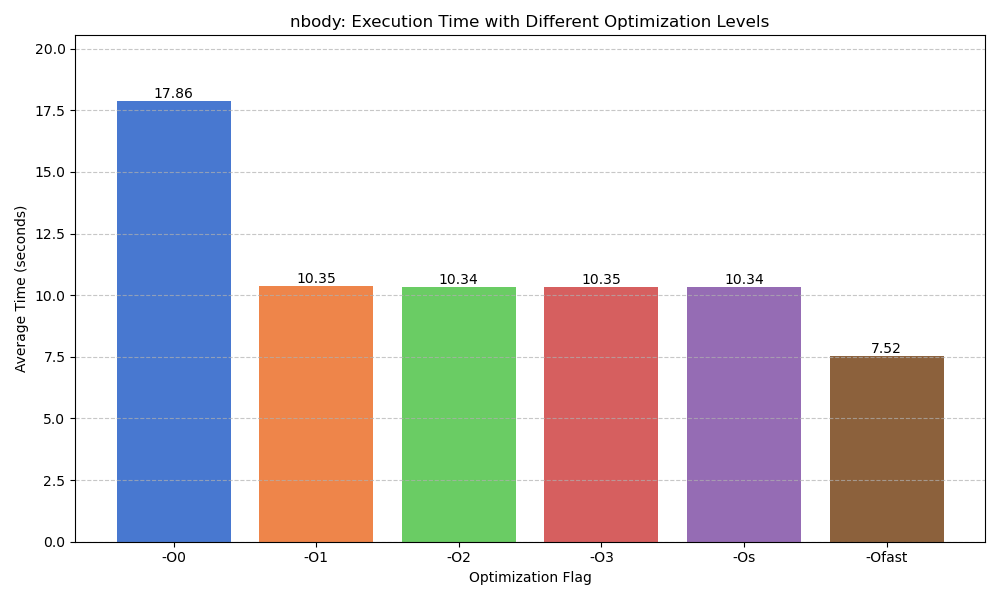
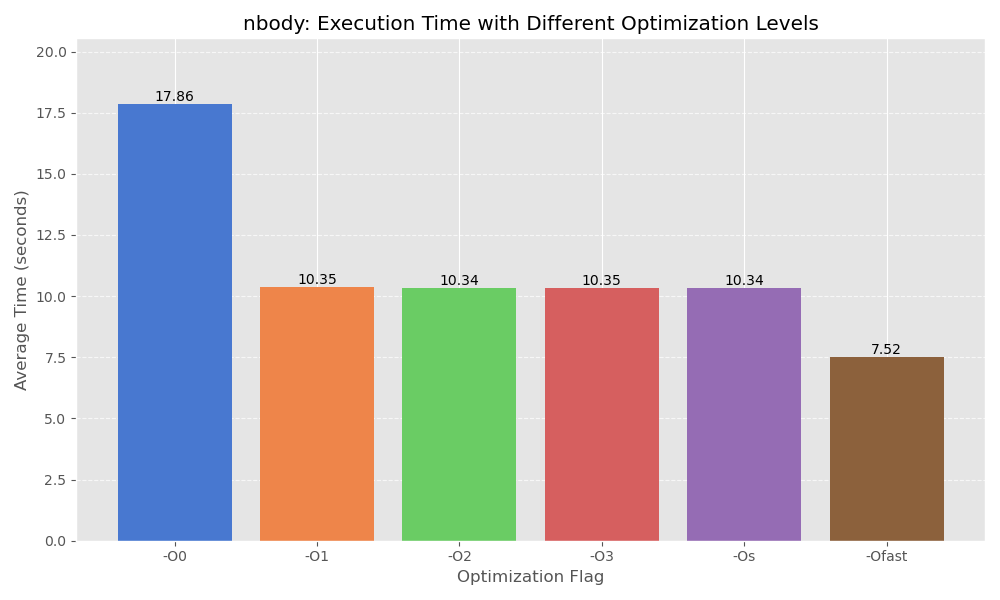
Add detailed optimization analysis and new plots for performance improvements

diff --git a/05/results_b/plot.py b/05/results_b/plot.py
@@ -1,0 +1,114 @@
+import pandas as pd
+import matplotlib.pyplot as plt
+import seaborn as sns
+import numpy as np
+import os
+
+plt.style.use('ggplot')
+sns.set_palette("muted")
+df = pd.read_csv('flag_analysis.csv')
+
+# Extract program names for easier display
+df['ProgramName'] = df['Program'].apply(lambda x: x.split('/')[-1])
+
+# Function to format flag names for better display
+def format_flag(flag):
+    return flag.replace('-f', '').replace('-O3 (full)', 'O3 full')
+
+# Apply formatting to flag names
+df['FormattedFlag'] = df['Flag'].apply(format_flag)
+
+# Create a directory for saving plots
+output_dir = '.'
+os.makedirs(output_dir, exist_ok=True)
+
+# Set figure size for individual plots
+plt.figure(figsize=(12, 7))
+
+# Generate individual plots for each program
+for program in df['Program'].unique():
+    program_df = df[df['Program'] == program]
+    program_name = program.split('/')[-1]
+    
+    plt.figure(figsize=(12, 7))
+    ax = sns.barplot(x='FormattedFlag', y='Improvement (%)', data=program_df)
+    
+    # Add a horizontal line at y=0 to highlight positive/negative improvements
+    plt.axhline(y=0, color='black', linestyle='-', alpha=0.3)
+    
+    # Rotate x-axis labels for better readability
+    plt.xticks(rotation=45, ha='right')
+    
+    # Add labels and title
+    plt.xlabel('Compiler Flag')
+    plt.ylabel('Performance Improvement (%)')
+    plt.title(f'Performance Improvement for {program_name}')
+    
+    # Add value labels on top of each bar
+    for i, p in enumerate(ax.patches):
+        height = p.get_height()
+        if not np.isnan(height):
+            ax.text(p.get_x() + p.get_width()/2., height + (0.3 if height >= 0 else -0.8),
+                    f'{height:.2f}%', ha="center", fontsize=9)
+    
+    plt.tight_layout()
+    plt.savefig(f'{output_dir}/{program_name}_optimization.png', dpi=300)
+    plt.close()
+
+# Create a combined plot for all programs
+plt.figure(figsize=(14, 10))
+
+# Pivot the data for the combined plot
+pivot_df = df.pivot(index='FormattedFlag', columns='ProgramName', values='Improvement (%)')
+
+# Create the heatmap for combined plot
+ax = sns.heatmap(pivot_df, annot=True, cmap='RdYlGn', center=0, fmt='.2f',
+                linewidths=.5, cbar_kws={'label': 'Performance Improvement (%)'})
+
+plt.title('Performance Improvement for All Programs and Flags')
+plt.xticks(rotation=45, ha='right')
+plt.yticks(rotation=0)
+plt.tight_layout()
+plt.savefig(f'{output_dir}/combined_heatmap.png', dpi=300)
+
+# Create another combined plot as a grouped bar chart
+plt.figure(figsize=(16, 10))
+
+# Create the subplot for the bar chart
+ax = plt.subplot(111)
+
+# Calculate the number of programs and flags
+num_programs = len(df['ProgramName'].unique())
+num_flags = len(df['FormattedFlag'].unique())
+bar_width = 0.8 / num_programs
+index = np.arange(num_flags)
+
+# Plot each program as a group of bars
+for i, program in enumerate(df['ProgramName'].unique()):
+    program_data = df[df['ProgramName'] == program]
+    # Ensure data is in the same order as the unique flags
+    ordered_data = []
+    for flag in df['FormattedFlag'].unique():
+        flag_value = program_data[program_data['FormattedFlag'] == flag]['Improvement (%)'].values
+        ordered_data.append(flag_value[0] if len(flag_value) > 0 else np.nan)
+    
+    x_positions = index + i * bar_width
+    bars = ax.bar(x_positions, ordered_data, bar_width, label=program)
+
+# Add labels and title
+ax.set_xlabel('Compiler Flag')
+ax.set_ylabel('Performance Improvement (%)')
+ax.set_title('Performance Improvement by Program and Flag')
+ax.set_xticks(index + (num_programs - 1) * bar_width / 2)
+ax.set_xticklabels(df['FormattedFlag'].unique(), rotation=45, ha='right')
+
+# Add a horizontal line at y=0
+ax.axhline(y=0, color='black', linestyle='-', alpha=0.3)
+
+# Add legend outside the plot
+ax.legend(loc='upper left', bbox_to_anchor=(1, 1))
+
+plt.tight_layout()
+plt.savefig(f'{output_dir}/combined_bars.png', dpi=300)
+
+print(f"Plots saved to the '{output_dir}' directory.")

diff --git a/05/results_a/plot.py b/05/results_a/plot.py
@@ -4,6 +4,9 @@ import re
 import numpy as np
 import seaborn as sns
 
+plt.style.use('ggplot')
+sns.set_palette("muted")
+
 def load_data(file_path):
     df = pd.read_csv(file_path)
     
@@ -70,7 +73,7 @@ def create_plots(df, output_prefix='optimization'):
         plt.grid(axis='y', linestyle='--', alpha=0.7)
         plt.tight_layout()
         
-        plt.savefig(f'{output_prefix}_{program}_cluster.png')
+        plt.savefig(f'{output_prefix}_{program}_local.png')
         plt.close()
     
     plt.figure(figsize=(14, 8))
@@ -87,9 +90,9 @@ def create_plots(df, output_prefix='optimization'):
     plt.legend(title='Optimization Flag')
     plt.grid(axis='y', linestyle='--', alpha=0.7)
     plt.tight_layout()
-    plt.savefig(f'{output_prefix}_summary_bars_cluster.png')
+    plt.savefig(f'{output_prefix}_summary_bars_local.png')
 
-def main(file_path='performance_results_cluster.csv'):
+def main(file_path='performance_results_local.csv'):
     df = load_data(file_path)
     create_plots(df)
     print("Optimization graphs have been generated.")

diff --git a/05/Barbist_05.md b/05/Barbist_05.md
@@ -18,7 +18,7 @@ A) Basic Optimization Levels
 
 B) Individual Compiler Optimizations
 ------------------------------------
-
+- This task was done on my local system for time saving reason 
 - Flag analysis summary:
     - fversion-loops-for-strides: appeared in top flags for 4 programs
     - fvect-cost-model=dynamic: appeared in top flags for 4 programs
@@ -34,6 +34,40 @@ B) Individual Compiler Optimizations
     - floop-interchange: appeared in top flags for 3 programs
     - fgcse-after-reload: appeared in top flags for 3 programs
 
+![Headmap of the flags](results_b/combined_heatmap.png)
+![Combined Barchart](results_b/combined_bars.png)
+
+## Top 3 Most Impactful Options Across All Test Cases
+- -fversion-loops-for-strides (2.93% average improvement)
+- -fipa-cp-clone (2.32% average improvement)
+- -fvect-cost-model=dynamic (2.12% average improvement)
+
+[Optimize-Options](https://gcc.gnu.org/onlinedocs/gcc/Optimize-Options.html)
+### -fversion-loops-for-strides
+If a loop iterates over an array with a variable stride, create another version of the loop that assumes the stride is always one. 
+
+```c
+for (int i = 0; i < n; ++i)
+  x[i * stride] = …;
+```
+to 
+
+```c	
+if (stride == 1)
+  for (int i = 0; i < n; ++i)
+    x[i] = …;
+else
+  for (int i = 0; i < n; ++i)
+    x[i * stride] = …;
+```
+
+### -fipa-cp-clone
+
+Perform function cloning to make interprocedural constant propagation stronger. When enabled, interprocedural constant propagation performs function cloning when externally visible function can be called with constant arguments. Because this optimization can create multiple copies of functions, it may significantly increase code size (see --param ipa-cp-unit-growth=value).
+
+### -fvect-cost-model=dynamic
+
+With the ‘dynamic’ model a runtime check guards the vectorized code-path to enable it only for iteration counts that will likely execute faster than when executing the original scalar loop.
 
 
 C) Autotuning (optional)
